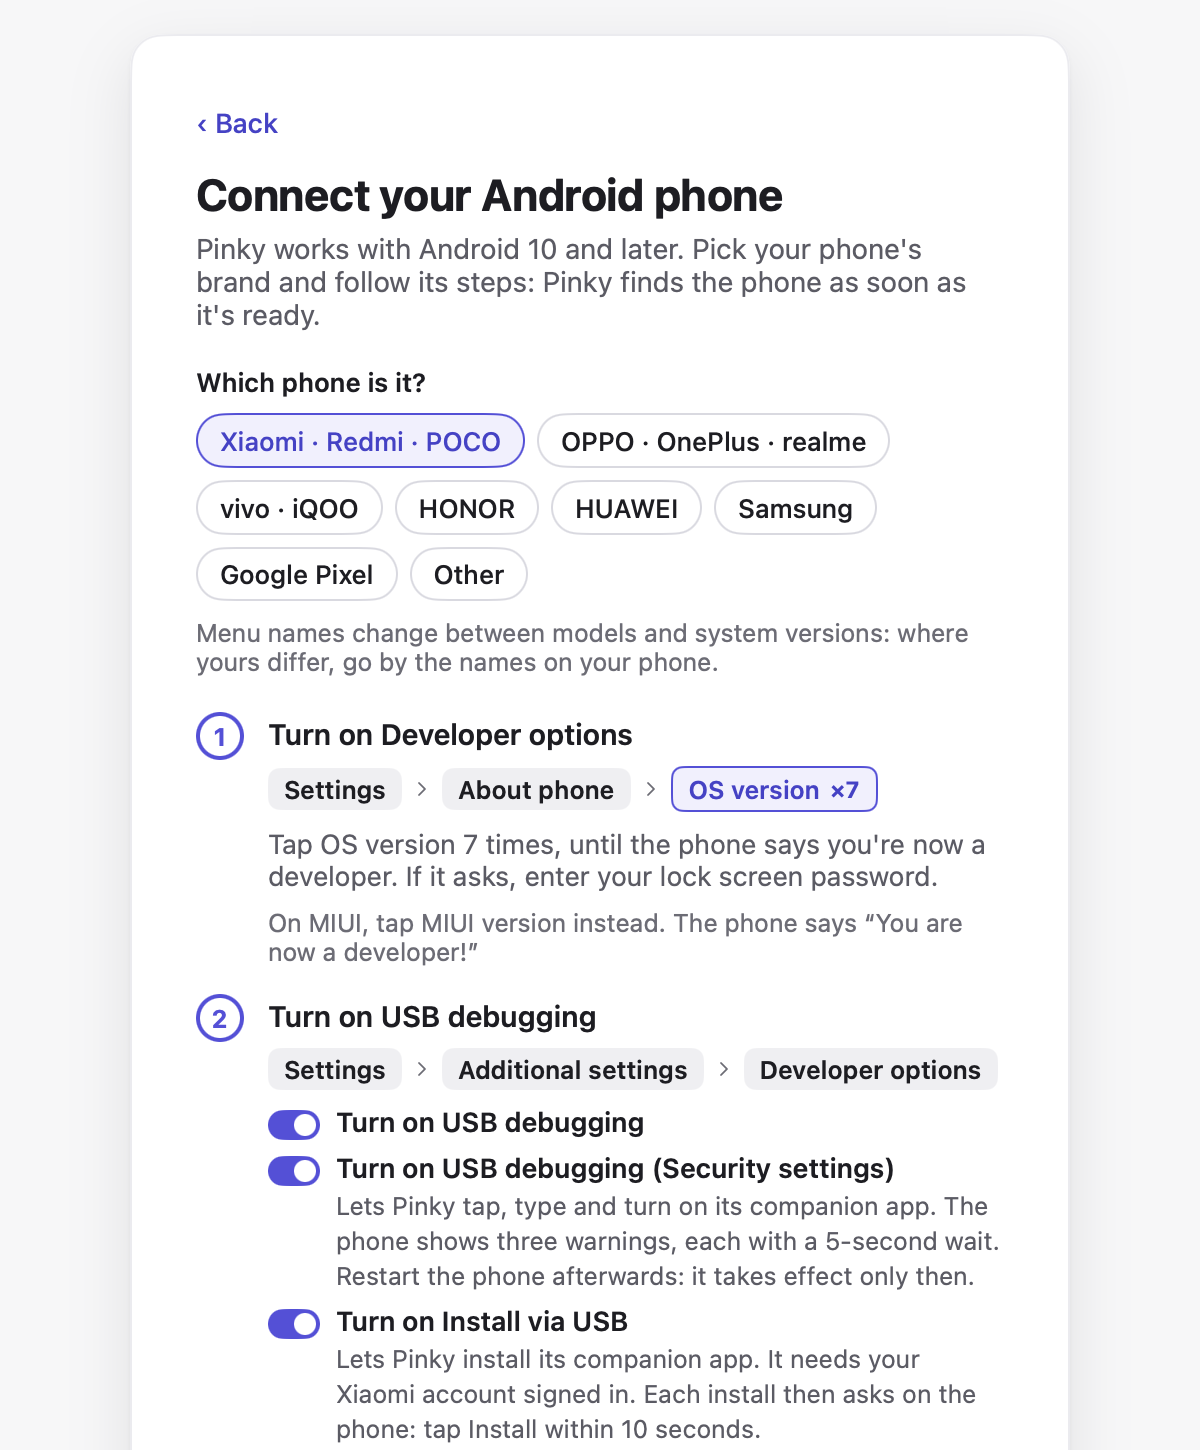
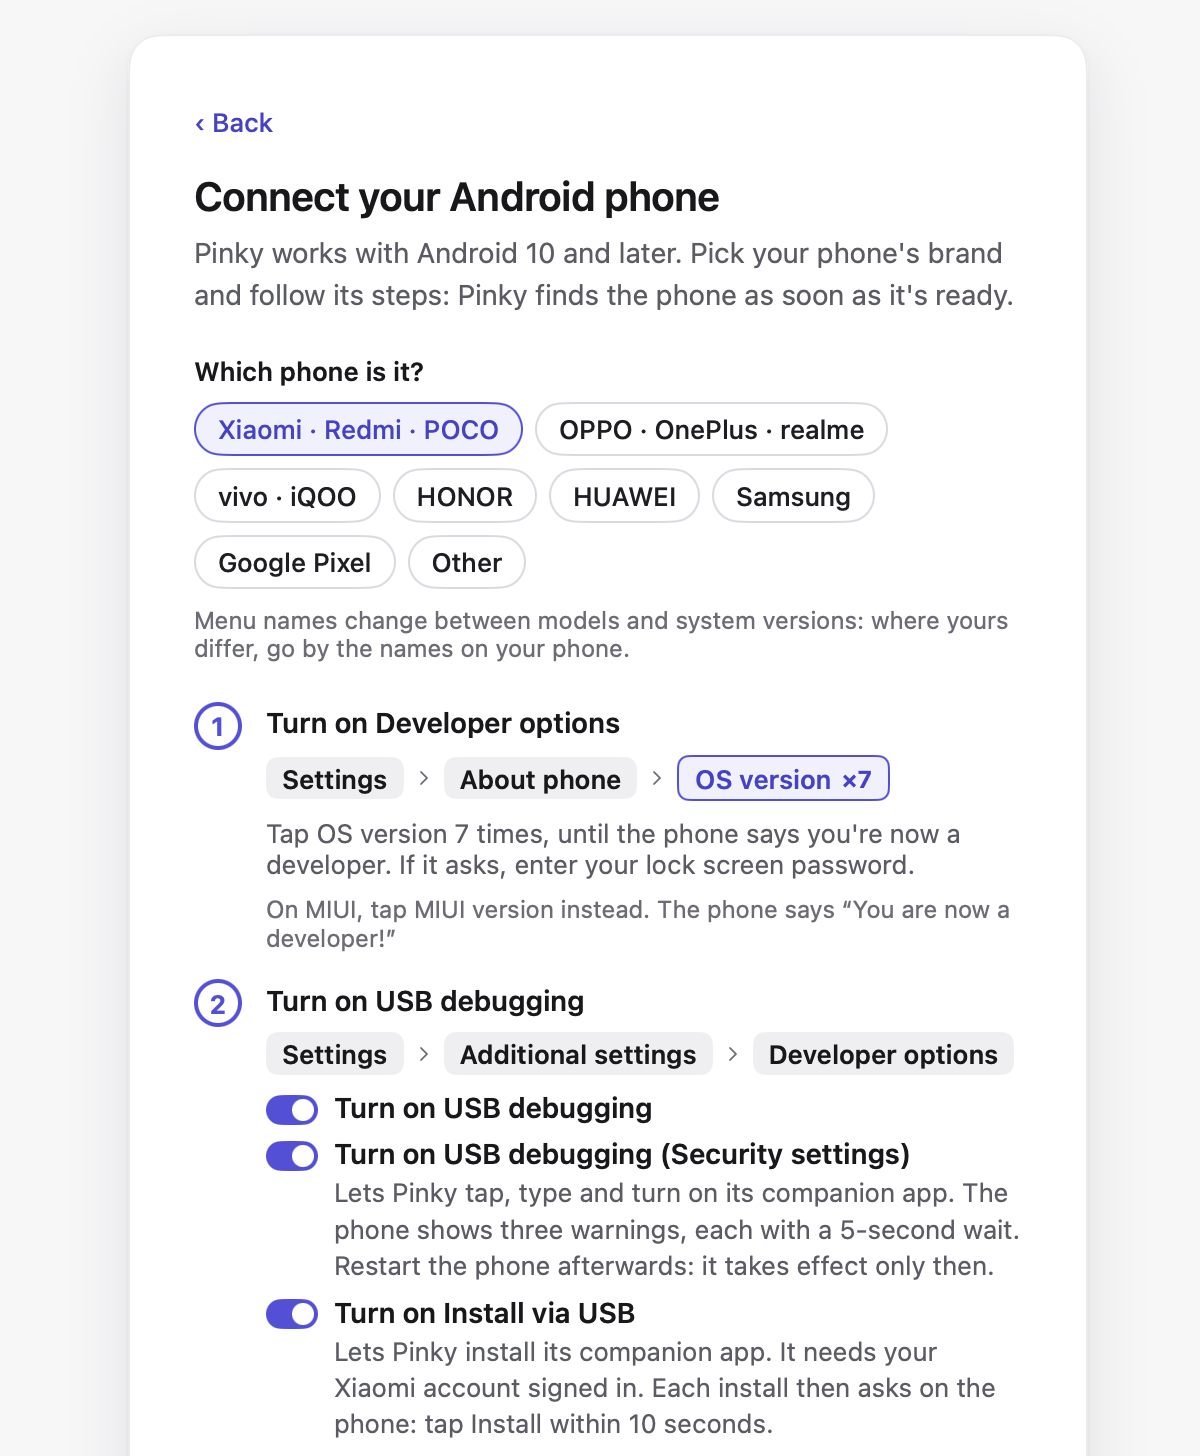
docs: the app's tokens and parts, and README pictures in the new look
docs/notes/client.md gets a section on the look: the stage and wings,
the type, space and radius scales, what each color means, and the parts
in ui/style.go every screen is built from. The README's Add phone,
checkup and Settings › Agents pictures are drawn again in English and
Chinese.

Changed region(s): [[0.1542, 0.1241, 0.8325, 0.9931], [0.6167, 0.7138, 0.8325, 0.7448], [0.1542, 0.0621, 0.2467, 0.0931]]

diff --git a/docs/notes/client.md b/docs/notes/client.md
@@ -283,6 +283,19 @@ The prototype's amber and red sat too close to the brand. In OKLCH, dark mode's 
 
 The trade-off: amber now leans orange and red leans vermilion, so amber and red are closer to each other than in the prototype (hue 65° against 31°, but lightness 0.70 against 0.54 in light mode), still clearly apart, while neither can be mistaken for the logo or the selection mark. Shapes back the hues up: amber is dots, card tints and the tile edge; red is only the text and border of Stop; watermelon is only a thin bar and the focus ring; lemon is only inside the logo. No brand color is used as a fill, so selected rows never look like Needs you cards.
 
+## The look: tokens and parts (2026-11-11)
+
+Every screen is built from the tokens and parts in `ui/style.go`, so the app reads as one. Use them instead of numbers of your own; a size, gap or radius that is not on the scale is a bug.
+
+- **Layout.** A stage and two wings: the page in the middle is the stage (`bg`), the sidebar and the panel on the right are the wings (`wing`, gray), and the cards on the wings are raised (`card`, white in light mode, with `raised`'s two-layer shadow). On a page, settings and lists sit in macOS-style groups (`group` and `groupRow`: rows on one rounded field, divided by a hairline inset from the left). The sidebar shows the window's material where there is one (`c.Vibrancy()`: macOS, and Mica on Windows 11), and the wings' gray elsewhere. The sidebar's brand row and every page's header are `headerHeight` (52) tall, and rows start their text at `rowInset` (12).
+- **Type.** One scale, `fsCaption` 12, `fsSmall` 13, `fsBody` 14, `fsHeadline` 15, `fsTitle3` 17, `fsTitle2` 20, `fsTitle1` 26, and four weights, `fwRegular` to `fwBold`. Body text, rows and buttons are `fsBody`; descriptions `fsSmall` in `ink2`; meta, counts and eyebrows `fsCaption` in `ink3`; card and group titles `fsHeadline` semibold; a page's header `fsTitle3`, its content's title and dialogs' `fsTitle2`. Section labels above a group are `sectionLabel`: caption, semibold, `ink3`, sentence case (no capitals).
+- **Space.** `sp1` 4, `sp2` 8, `sp3` 12, `sp4` 16, `sp5` 20, `sp6` 24, `sp8` 32. There is no `sp7`.
+- **Radii.** `rSmall` 6 for small buttons, chips and thumbnails; `rControl` 8 for buttons, rows and menu items; `rCard` 12 for cards, tiles, popovers and notes; `rSheet` 16 for dialogs.
+- **Color carries meaning, nothing else.** Amber (dots, card tints, the tile edge) is what needs the person; red only Stop and Deny (and errors' text); green allows and works; watermelon (`brand`) only the selection mark and the focus ring; indigo (`accentBtn`) the primary button and links. Removing a phone, the one other destructive action, is a plain button in Settings and red text in the ⋯ menu, and asks first.
+- **Parts.** `button` (34 tall; `btnPrimary`, plain, `small`, with an icon), `linkButton`, `quietButton`; `card`, `raised`, `group`/`groupRow`; `sheet` for every dialog (a 16 radius, 24 padding, a soft shadow and a 0.32 backdrop, with the primary button rightmost); `menuPanel`, `menuItem` and `menuText` for popovers such as the phone's ⋯ menu; `pageHeader`, `pageTitle` and `settingsHeading`; `emptyWell` for an empty list and `stateTitle`/`stateDetail` for a page's empty, error and first-run states; `tileIcon` for Add phone's choices; `appIcon`, `dot`, `hollowDot`, `spinner`, `selectionMark`. Activity's steps hang on a timeline: a rail with each step's picture, or `stepThumb`, a sketch of a screen, where it has none.
+
+`PINKY_SCREENSHOTS_ZH=<dir> PINKY_SCREENSHOTS_DARK=1 go test ./ui -run 'TestChinese.*Screenshots'` draws every screen in both appearances, the quickest way to see a change everywhere.
+
 ## Differences from the prototype
 
 - The phone in the middle grows with the window (the prototype draws it 300 × 632); its bezel radius scales with it.
